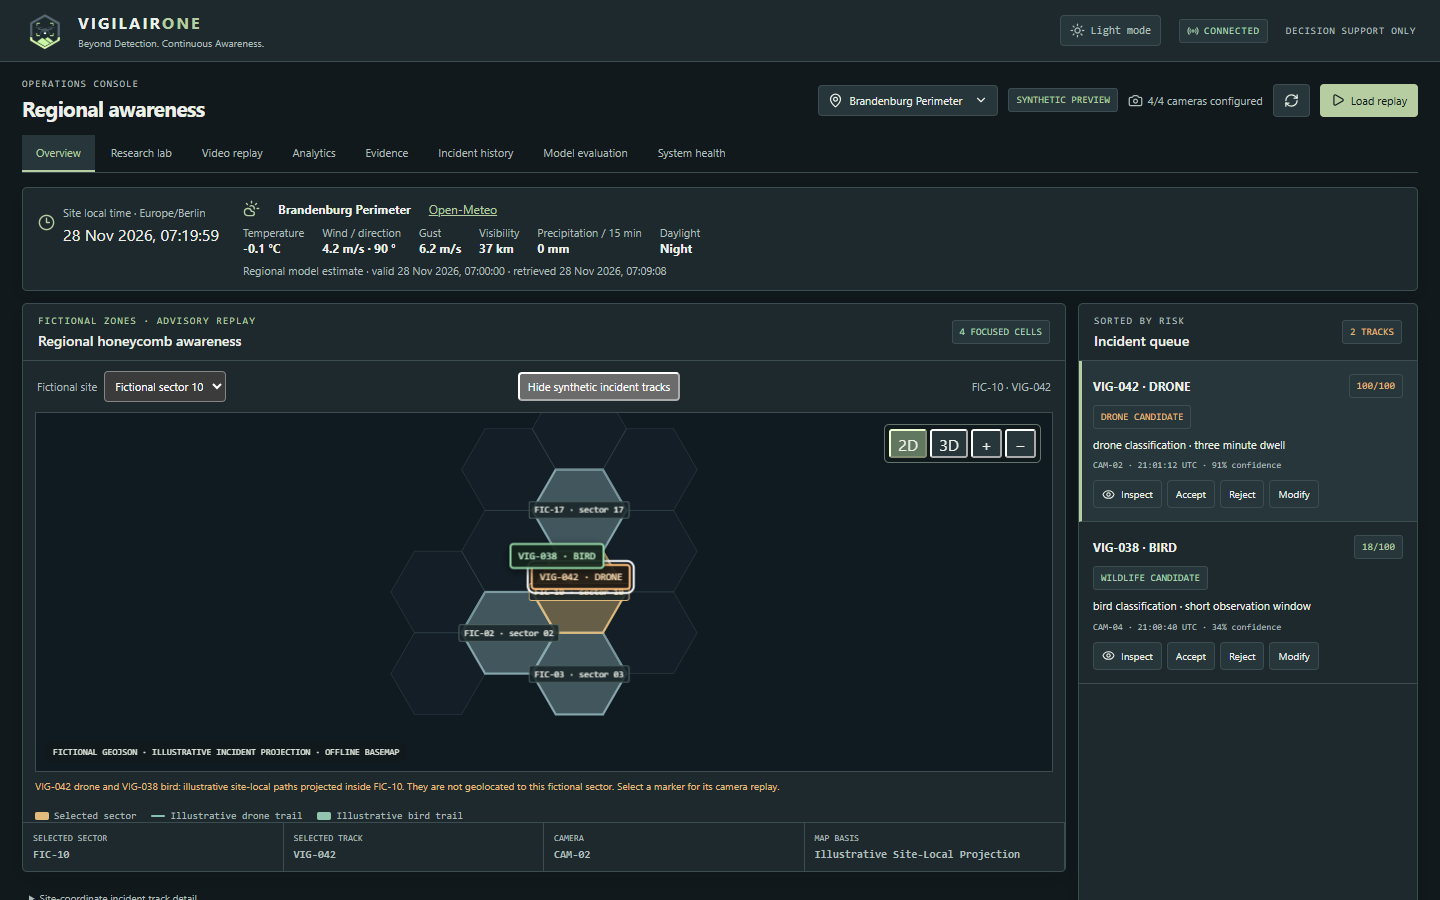
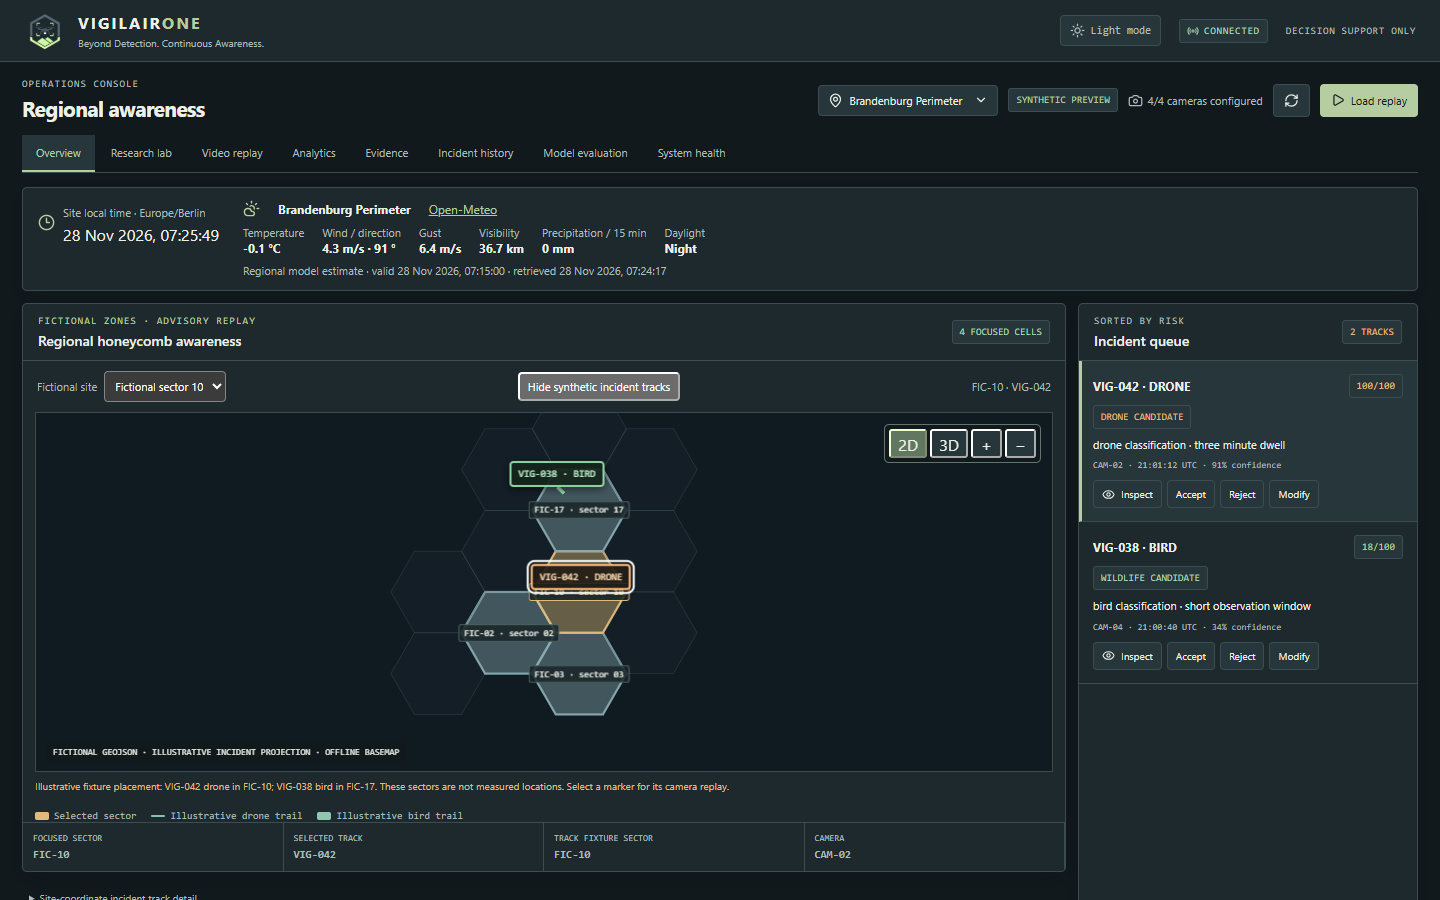
Place synthetic drone and bird in distinct fictional sectors

diff --git a/src/ResearchOverview.jsx b/src/ResearchOverview.jsx
@@ -11,7 +11,8 @@ export function ResearchOverviewMap({ workspace, theme, operationTracks = [], op
   const { data, scenario, visibleIds, observation, focus, setFocus, showIncidents, setShowIncidents, step, setStep, playing, setPlaying } = workspace
   const selectedZone = scenario?.sites.find(site => site.site_id === (focus ?? scenario.default_visible[0]))
   const radius = scenario && Math.abs(scenario.zones.features[0].geometry.coordinates[0][0][0] - scenario.sites[0].longitude)
-  const incidentTracks = useMemo(() => showIncidents ? incidentProjection(operationTracks, operationalSiteId, selectedZone, radius) : [], [showIncidents, operationTracks, operationalSiteId, selectedZone, radius])
+  const incidentTracks = useMemo(() => showIncidents ? incidentProjection(operationTracks, operationalSiteId, scenario?.sites, radius) : [], [showIncidents, operationTracks, operationalSiteId, scenario, radius])
+  const selectedIncidentSector = incidentTracks.find(track => track.track_id === selectedIncidentId)?.sector_id
   const selectZone = id => { setFocus(id); setShowIncidents(true) }
   if (data.loading) return <section className="panel padded" role="status">Loading fictional zone network…</section>
   if (!scenario) return <section className="panel padded" role="alert">Fictional map unavailable: {data.error}. Incident review remains available. <button onClick={workspace.refresh}>Retry</button></section>
@@ -19,9 +20,9 @@ export function ResearchOverviewMap({ workspace, theme, operationTracks = [], op
     <div className="panel-heading"><div><small>FICTIONAL ZONES · ADVISORY REPLAY</small><h2>Regional honeycomb awareness</h2></div><span className="badge green">{visibleIds.length} focused cells</span></div>
     <div className="research-map-tools"><label>Fictional site <select aria-label="Overview fictional site" value={focus ?? scenario.default_visible[0]} onChange={event => selectZone(event.target.value)}>{scenario.sites.map(site => <option key={site.site_id} value={site.site_id}>{site.name}</option>)}</select></label><button type="button" onClick={() => setShowIncidents(value => !value)} aria-pressed={showIncidents}>{showIncidents ? 'Hide' : 'Show'} synthetic incident tracks</button><span>{showIncidents ? `${selectedZone?.site_id ?? 'Sector unavailable'} · ${selectedIncidentId ?? 'synthetic incidents'}` : `${observation?.track_id ?? 'Synthetic track unavailable'} · ${observation?.site_id ?? '—'}`}</span></div>
     <ResearchMap scenario={scenario} visibleIds={visibleIds} observation={observation} theme={theme} onZoneSelect={selectZone} incidentTracks={incidentTracks} selectedIncidentId={selectedIncidentId} selectedIncidentObservation={selectedIncidentObservation} onIncidentSelect={onIncidentSelect} showScenarioTrack={!showIncidents}/>
-    {showIncidents && <p className="research-projection-note">VIG-042 drone and VIG-038 bird: illustrative site-local paths projected inside {selectedZone?.site_id}. They are not geolocated to this fictional sector. Select a marker for its camera replay.</p>}
+    {showIncidents && <p className="research-projection-note">Illustrative fixture placement: VIG-042 drone in FIC-10; VIG-038 bird in FIC-17. These sectors are not measured locations. Select a marker for its camera replay.</p>}
     <div className="research-map-legend" aria-label="Map legend">{showIncidents ? <><span><i className="tracked"/>Selected sector</span><span><i className="trail"/>Illustrative drone trail</span><span><i className="watch"/>Illustrative bird trail</span></> : <><span><i className="tracked"/>Tracked</span><span><i className="predicted"/>Predicted</span><span><i className="watch"/>Watch</span><span><i className="trail"/>Past trail</span><span><i className="estimate"/>Estimated path</span></>}</div>
-    {showIncidents ? <div className="research-overview-facts"><span>SELECTED SECTOR <strong>{selectedZone?.site_id ?? 'Unavailable'}</strong></span><span>SELECTED TRACK <strong>{selectedIncidentId ?? 'None'}</strong></span><span>CAMERA <strong>{selectedIncidentObservation?.camera_id ?? 'Unavailable'}</strong></span><span>MAP BASIS <strong>Illustrative site-local projection</strong></span></div> : <><div className="research-transport"><button type="button" onClick={() => setPlaying(value => !value)} aria-label={playing ? 'Pause synthetic replay' : 'Play synthetic replay'}>{playing ? <Pause size={15}/> : <Play size={15}/>} {playing ? 'Pause' : 'Play'}</button><input type="range" aria-label="Synthetic replay step" min="0" max={scenario.observations.length - 1} value={step} onChange={event => { setPlaying(false); setStep(Number(event.target.value)) }}/><span>{step + 1}/{scenario.observations.length}</span></div><div className="research-overview-facts"><span>POSITION <strong>{observation?.latitude.toFixed(5)}, {observation?.longitude.toFixed(5)}</strong></span><span>HEADING <strong>{compassName(observation?.prediction?.heading_deg)}</strong></span><span>EST. NEXT <strong>{observation?.prediction?.next_zone_ids?.join(', ') || 'None'}</strong></span><span>HANDOFF <strong>{observation?.handoff_phase?.replaceAll('_', ' ') ?? 'Unavailable'}</strong></span></div></>}
+    {showIncidents ? <div className="research-overview-facts"><span>FOCUSED SECTOR <strong>{selectedZone?.site_id ?? 'Unavailable'}</strong></span><span>SELECTED TRACK <strong>{selectedIncidentId ?? 'None'}</strong></span><span>TRACK FIXTURE SECTOR <strong>{selectedIncidentSector ?? 'Unavailable'}</strong></span><span>CAMERA <strong>{selectedIncidentObservation?.camera_id ?? 'Unavailable'}</strong></span></div> : <><div className="research-transport"><button type="button" onClick={() => setPlaying(value => !value)} aria-label={playing ? 'Pause synthetic replay' : 'Play synthetic replay'}>{playing ? <Pause size={15}/> : <Play size={15}/>} {playing ? 'Pause' : 'Play'}</button><input type="range" aria-label="Synthetic replay step" min="0" max={scenario.observations.length - 1} value={step} onChange={event => { setPlaying(false); setStep(Number(event.target.value)) }}/><span>{step + 1}/{scenario.observations.length}</span></div><div className="research-overview-facts"><span>POSITION <strong>{observation?.latitude.toFixed(5)}, {observation?.longitude.toFixed(5)}</strong></span><span>HEADING <strong>{compassName(observation?.prediction?.heading_deg)}</strong></span><span>EST. NEXT <strong>{observation?.prediction?.next_zone_ids?.join(', ') || 'None'}</strong></span><span>HANDOFF <strong>{observation?.handoff_phase?.replaceAll('_', ' ') ?? 'Unavailable'}</strong></span></div></>}
   </section>
 }
 

diff --git a/src/main.jsx b/src/main.jsx
@@ -10,6 +10,7 @@ import { HybridEvaluation } from './HybridEvaluation'
 import { SiteWeather } from './SiteWeather'
 import { ResearchLab } from './ResearchLab'
 import { ResearchOverviewMap, ResearchOverviewStatus } from './ResearchOverview'
+import { incidentSectorId } from './incidentProjection.mjs'
 import { LiveInputs } from './LiveInputs'
 import { useResearchWorkspace } from './useResearchWorkspace'
 import { useConsoleData } from './useConsoleData'
@@ -141,7 +142,7 @@ function App() {
   const selectObservation = (id, index) => { setSelectedId(id); setFrameIndex(index); setPlaying(false) }
   useEffect(() => { if (!playing || !track) return; const timer = setInterval(() => setFrameIndex(index => ((index ?? -1) + 1) % track.observations.length), 900); return () => clearInterval(timer) }, [playing, track])
   useEffect(() => { if (consoleData.status !== 'connected' || !track) { setIncident(null); setAnalytics(null); setAllocation(null); return }; let active = true; Promise.allSettled([api.incident(track.track_id), api.analytics(track.track_id, siteId), api.allocation(track.track_id)]).then(results => { if (!active) return; setIncident(results[0].status === 'fulfilled' ? results[0].value : null); setAnalytics(results[1].status === 'fulfilled' ? results[1].value : null); setAllocation(results[2].status === 'fulfilled' ? results[2].value : null) }); return () => { active = false } }, [track?.track_id, siteId, consoleData.status, consoleData.updatedAt])
-  const inspect = id => { selectObservation(id, Math.max(0, (tracks.find(item => item.track_id === id)?.observations.length ?? 1) - 1)); workspace.setShowIncidents(true); setTab('Overview'); setNotice('') }
+  const inspect = id => { selectObservation(id, Math.max(0, (tracks.find(item => item.track_id === id)?.observations.length ?? 1) - 1)); const sectorId = incidentSectorId(id, workspace.scenario?.sites); if (sectorId) workspace.setFocus(sectorId); workspace.setShowIncidents(true); setTab('Overview'); setNotice('') }
   const beginReview = (target, decision) => {
     const actions = target.risk.recommended_actions ?? []
     setReview({ id: target.track_id, decision, actions, action: actions[0] ?? '', note: '' })

diff --git a/src/ResearchMap.jsx b/src/ResearchMap.jsx
@@ -156,8 +156,9 @@ export function ResearchMap({ scenario, visibleIds, observation, theme, onZoneSe
       node.type = 'button'
       node.className = `research-incident-marker ${track.class_name === 'bird' ? 'bird' : 'drone'} ${selectedIncidentId === track.track_id ? 'selected' : ''}`
       node.textContent = `${track.track_id} · ${track.class_name.toUpperCase()}`
+      node.dataset.sectorId = track.sector_id
       node.dataset.observationTime = track.observations[positionFor(track)]?.timestamp ?? ''
-      node.title = `${track.track_id}: illustrative site-local projection. Inspect synthetic camera observation.`
+      node.title = `${track.track_id}: illustrative placement in ${track.sector_id}. Inspect synthetic camera observation.`
       node.addEventListener('click', event => { event.stopPropagation(); incidentSelectRef.current?.(track.track_id) })
       return new Marker({ element: node, anchor: 'bottom' }).setLngLat(track.coordinates[positionFor(track)]).addTo(map)
     })
